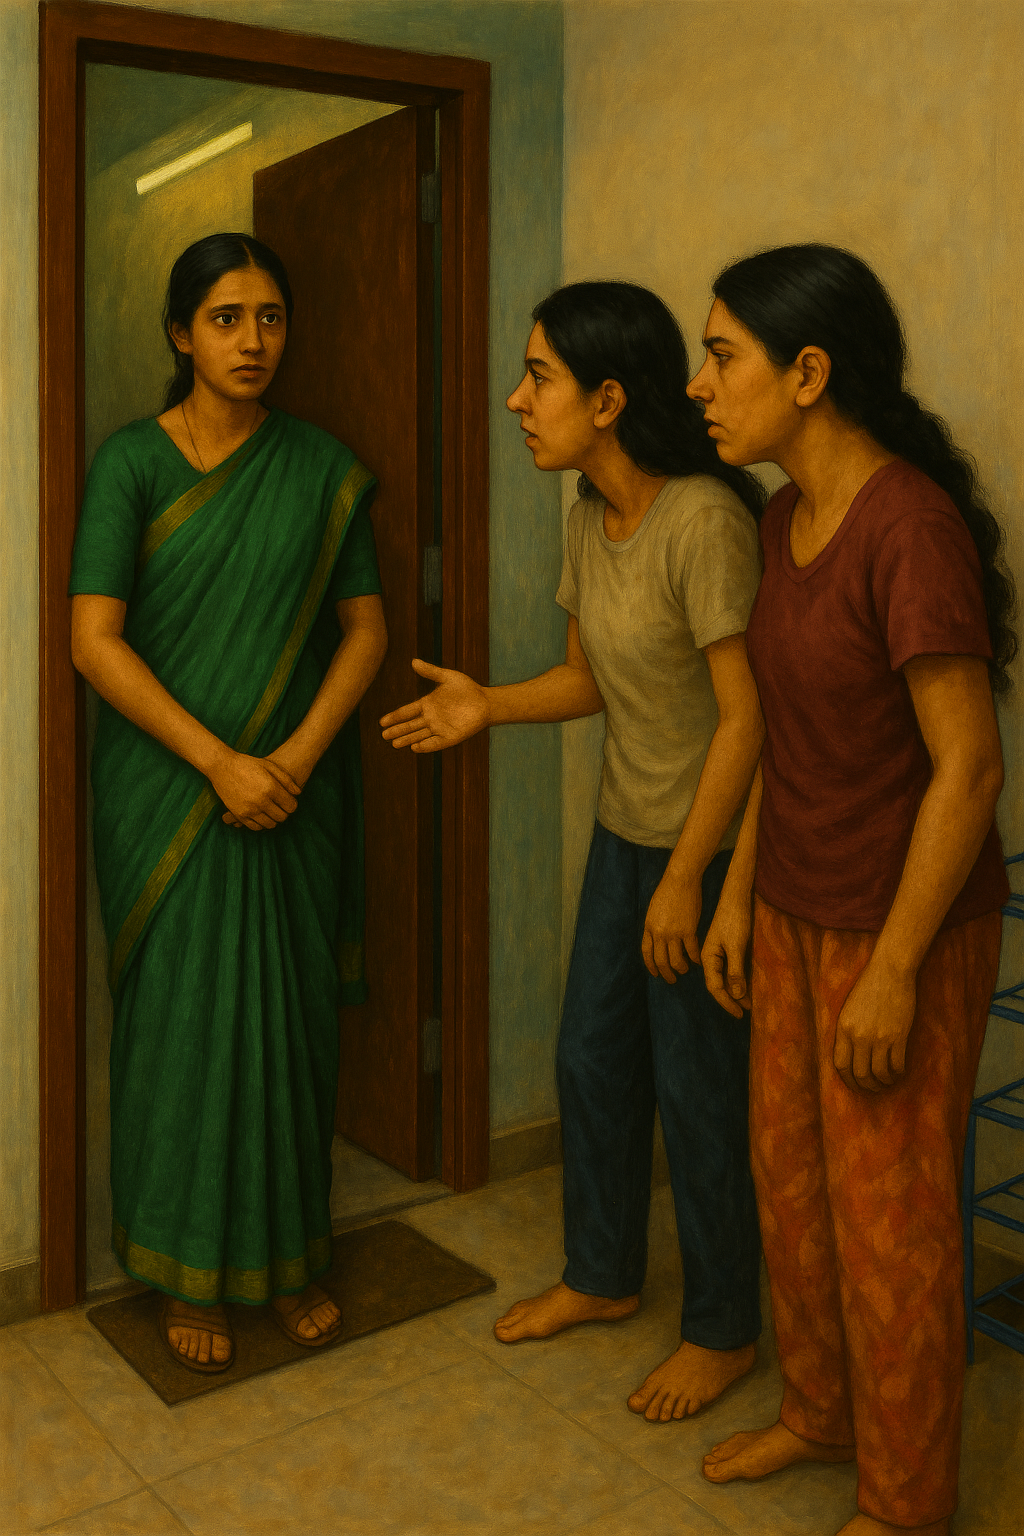
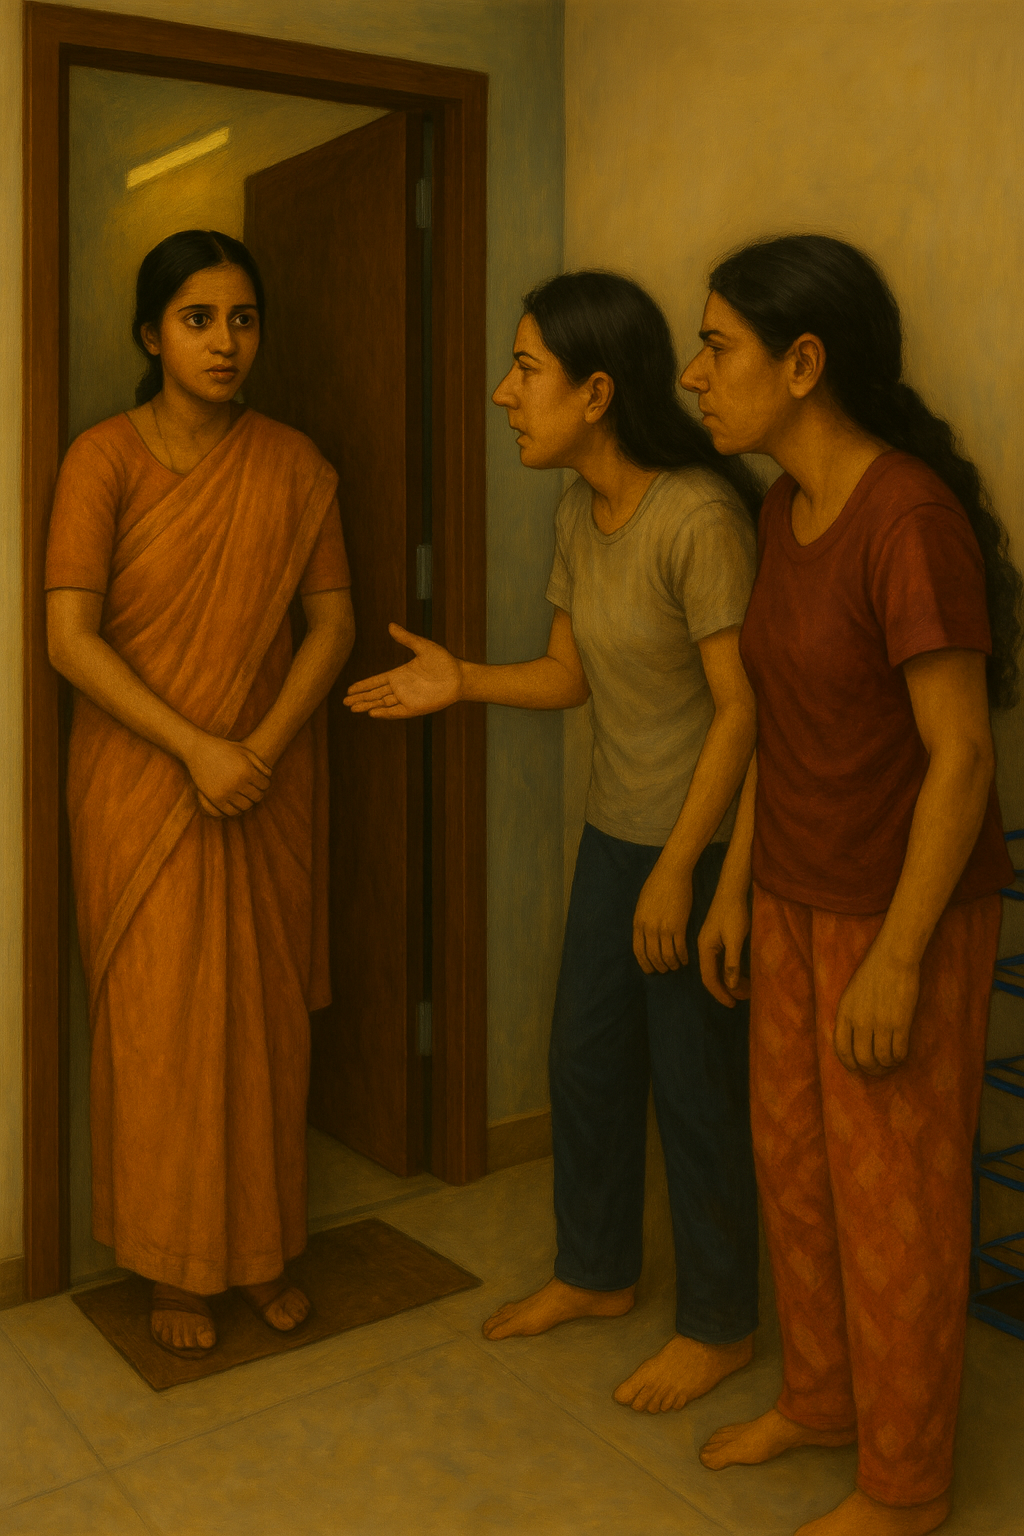
Update saraswati-chapter-3.html with new story content and fix navigation links between all chapters

diff --git a/stories/saraswati-chapter-3.html b/stories/saraswati-chapter-3.html
@@ -1,0 +1,157 @@
+<!DOCTYPE html>
+<html lang="en">
+<head>
+    <meta charset="UTF-8">
+    <meta name="viewport" content="width=device-width, initial-scale=1.0">
+    <title>Saraswati - Chapter 3</title>
+    <link rel="stylesheet" href="../styles.css">
+</head>
+<body>
+    <!-- Navigation Header -->
+    <header class="story-header-nav">
+        <div class="container">
+            <nav class="story-nav">
+                <a href="../index.html" class="back-home-btn">
+                    <span class="back-icon">←</span>
+                    <span class="back-text">Back to Stories</span>
+                </a>
+                <div class="story-nav-title">
+                    <h1>Saraswati</h1>
+                </div>
+                <div class="story-nav-actions">
+                    <button class="theme-toggle" aria-label="Toggle theme">🌙</button>
+                </div>
+            </nav>
+        </div>
+    </header>
+
+    <main class="story-main">
+
+
+        <!-- Chapter Header -->
+        <section class="chapter-header">
+            <div class="container">
+                <div class="chapter-header-content">
+                    <h1 class="chapter-main-title">Chapter 3 - Man in the grey suit</h1>
+                    <div class="chapter-meta">
+                        <!-- <span class="genre-tag">Mystery</span> -->
+                        <!-- <span class="chapter-progress-text">Chapter 1 of 3</span> -->
+                    </div>
+                </div>
+            </div>
+        </section>
+
+        <!-- Chapter Navigation -->
+            <div class="container">
+                <div class="chapter-nav-container">
+                    <a href="saraswati-chapter-2.html" class="nav-btn nav-prev">
+                        <span class="nav-icon">←</span>
+                        <span class="nav-text">Previous Chapter</span>
+                    </a>
+                    <div class="chapter-progress">
+                        <div class="progress-bar">
+                            <div class="progress-fill" style="width: 100%"></div>
+                        </div>
+                        <span class="progress-text">Chapter 3 of 3</span>
+                    </div>
+                    <a href="#" class="nav-btn nav-next disabled">
+                        <span class="nav-text">Next Chapter</span>
+                        <span class="nav-icon">→</span>
+                    </a>
+                </div>
+            </div>
+        </section>
+
+        <!-- Chapter Content -->
+        <section class="chapter-content-modern">
+            <div class="container">
+                <article class="chapter-article">
+                    <div class="content-wrapper">                        
+                        <p>Night thickened. From the divan, Shwetha hissed, "Did you text David?"</p>
+                        
+                        <p>"Please, I'm not chasing your boyfriend," Aditi retorted.</p>
+                        
+                        <p>"He says you fixed coffee for tomorrow with him!"</p>
+                        
+                        <p>"It was his idea. Research for my article on that auteur Ramya Patil."</p>
+                        
+                        <p>"Ask Google, madam!" Shwetha said, jabbing a finger at the laptop.</p>
+                        
+                        <p>"I know, okay?" Aditi shot back, rolling her eyes. "He's good at this, that's the only reason I'm even meeting him. Otherwise—" she waved dismissively—"I wouldn't touch your lollipop. You keep him for yourself."</p>
+                        
+                        <p>Before Shwetha could retort, Saraswati leaned forward, her voice tentative. "Can we… search about people also? On Google?"</p>
+                        
+                        <p>"Of course," Aditi chuckled, her irritation dissolving. "The famous ones are all there. The rest of us? We're still invisible."</p>
+                        
+                        <p>Behind them, Saraswati hesitated, then began to type—slowly, deliberately—murmuring each letter under her breath as though afraid the name itself might vanish if she didn't.</p>
+                        
+                        <p>The search bar blinked back at her, the page crawling to load. She leaned closer, eyes unblinking now, breath shallow.</p>
+                        
+                        <p>When the results finally appeared, her pupils dilated, jaw slackening as the words on the screen seemed to leap at her.</p>
+                        
+                        <div class="chapter-illustration-inline">
+                            <img src="../images/saraswati-chapter3.png" alt="The dramatic confrontation scene" class="illustration-image">
+                        </div>
+                        <p>The half-open door pushed itself wider, protesting with the weary creak of old hinges, the sound cutting through the silence of the flat.</p>
+                        
+                        <p>Lightning flickered; the ceiling bulb fluttered. A floorboard creaked. All three women turned.</p>
+                        
+                        <p>An elderly man stood at the threshold—immaculate grey suit, neat white beard, leather shoulder satchel, and a polished walking stick. His left ear bore a dark birthmark shaped like a smudge of ink. He smiled, gentle and familiar.</p>
+                        
+                        <p>"Saraswati," he intoned.</p>
+                        
+                        <p>She rose, recognition dawning too late. Gauging his appearance from top to bottom, a mixture of emotions she raised her hand pointing at him and about to utter something..</p>
+                        
+                        <p>The man drew a revolver, small and silvery.</p>
+                        
+                        <p>He looked at her, did not seem to care about what she was about to say.</p>
+                        
+                        <p>Aditi screamed. Shwetha froze.</p>
+                        
+                        <p>Bang…</p>
+                        
+                        <p>The shot ripped into Saraswati, punched clean through, and exploded out the glass window in a spray of shards.</p>
+                        
+                        <p>Saraswati crumpled, notebook fluttering down like a dying moth.</p>
+                        
+                        <p>Shaken and trembling, Aditi and Shwetha shrank back, hiding in fear that the old man's gun might swing their way next.</p>
+                        
+                        <p>The stranger looking down at Saraswati drawing her last breath whispered, almost tenderly, "Never put your time in the hands of the ungrateful; in the end we become stories inked by our own actions." He slipped out, shutting the door with polite finality.</p>
+                        
+                        <p>Silence roared.</p>
+                    </div>
+                </article>
+            </div>
+        </section>
+
+        <!-- Bottom Navigation -->
+        <section class="chapter-navigation-modern bottom-nav">
+            <div class="container">
+                <div class="chapter-nav-container">
+                    <a href="saraswati-chapter-2.html" class="nav-btn nav-prev">
+                        <span class="nav-icon">←</span>
+                        <span class="nav-text">Previous Chapter</span>
+                    </a>
+                    <a href="#" class="nav-btn nav-next disabled">
+                        <span class="nav-text">Next Chapter</span>
+                        <span class="nav-icon">→</span>
+                    </a>
+                </div>
+            </div>
+        </section>
+    </main>
+
+    <!-- Footer -->
+    <footer class="story-footer">
+        <div class="container">
+            <div class="footer-content">
+                <p>&copy; 2024 Story Publisher. All stories are original works.</p>
+                <div class="footer-links">
+                    <a href="../index.html">Home</a>
+                    <a href="#contact">Contact</a>
+                </div>
+            </div>
+        </div>
+    </footer>
+</body>
+</html> 

diff --git a/stories/saraswati-chapter-1.html b/stories/saraswati-chapter-1.html
@@ -32,7 +32,7 @@
         <section class="chapter-header">
             <div class="container">
                 <div class="chapter-header-content">
-                    <h1 class="chapter-main-title">Chapter 2</h1>
+                    <h1 class="chapter-main-title">Chapter - 1</h1>
                     <div class="chapter-meta">
                         <!-- <span class="genre-tag">Mystery</span> -->
                         <!-- <span class="chapter-progress-text">Chapter 1 of 3</span> -->
@@ -44,15 +44,15 @@
         <!-- Chapter Navigation -->
             <div class="container">
                 <div class="chapter-nav-container">
-                    <a href="saraswati-prologue.html" class="nav-btn nav-next">
+                    <a href="saraswati-prologue.html" class="nav-btn nav-prev">
+                        <span class="nav-icon">←</span>
                         <span class="nav-text">Previous Chapter</span>
-                        <span class="nav-icon">→</span>
                     </a>
                     <div class="chapter-progress">
                         <div class="progress-bar">
                             <div class="progress-fill" style="width: 33%"></div>
                         </div>
-                        <span class="progress-text">Chapter 2 of 9</span>
+                        <span class="progress-text">Chapter 1 of 3</span>
                     </div>
                     <a href="saraswati-chapter-2.html" class="nav-btn nav-next">
                         <span class="nav-text">Next Chapter</span>
@@ -67,15 +67,16 @@
             <div class="container">
                 <article class="chapter-article">
                     <div class="content-wrapper">                        
-                        <div class="chapter-illustration-inline">
-                            <img src="../images/saraswati-chapter1.png" alt="Shwetha and Aditi in their apartment" class="illustration-image">
-                        </div>
+                        
                         <p>07 PM.. - Earlier That Evening. </p>
                         <p>Inside flat 3‐C, twenty‐three‐year‐old Shwetha Rao banged on the bathroom door.</p>
                         <p>"Aditi, ya, hurry up! My stomach will explode!"</p>
                         <p>From behind the door Aditi Menon laughed. "Two minutes, baba! Need to squeeze out all that vada pav!"</p>
                         <p>Shwetha rolled her eyes, muttering threats. The second the latch clicked open, she rushed in—only to yelp. "You witch! Couldn't bother to flush?"</p>
                         <p>"Your fault for yelling 'faster', madaaam," Aditi sang, towels draped over her shoulder.</p>
+                        <div class="chapter-illustration-inline">
+                            <img src="../images/saraswati-chapter1.png" alt="Shwetha and Aditi in their apartment" class="illustration-image">
+                        </div>
                         <p>Five minutes later Shwetha emerged wiping her hands. She froze. "Why are you moving my stuff?" Aditi, already dismantling a shoe rack, answered breezily, "Didn't I tell you? Broker found us another flat‐mate."</p>
                         <p>"In my room? I can't share one loo with three girls!"</p>
                         <p>"We are not in the 90s, we are in 2014, Rent's gone up, electricity is killing us. Adjust, madam."</p>
@@ -91,11 +92,11 @@
         <section class="chapter-navigation-modern bottom-nav">
             <div class="container">
                 <div class="chapter-nav-container">
-                    <a href="#" class="nav-btn nav-prev disabled">
+                    <a href="saraswati-prologue.html" class="nav-btn nav-prev">
                         <span class="nav-icon">←</span>
                         <span class="nav-text">Previous Chapter</span>
                     </a>
-                    <a href="saraswati-chapter-1.html" class="nav-btn nav-next">
+                    <a href="saraswati-chapter-2.html" class="nav-btn nav-next">
                         <span class="nav-text">Next Chapter</span>
                         <span class="nav-icon">→</span>
                     </a>

diff --git a/stories/saraswati-chapter-2.html b/stories/saraswati-chapter-2.html
@@ -32,7 +32,7 @@
         <section class="chapter-header">
             <div class="container">
                 <div class="chapter-header-content">
-                    <h1 class="chapter-main-title">Chapter 3 - First Impressions</h1>
+                    <h1 class="chapter-main-title">Chapter 2 - First Impressions</h1>
                     <div class="chapter-meta">
                         <!-- <span class="genre-tag">Mystery</span> -->
                         <!-- <span class="chapter-progress-text">Chapter 1 of 3</span> -->
@@ -44,15 +44,15 @@
         <!-- Chapter Navigation -->
             <div class="container">
                 <div class="chapter-nav-container">
-                    <a href="saraswati-chapter-1.html" class="nav-btn nav-next">
+                    <a href="saraswati-chapter-1.html" class="nav-btn nav-prev">
+                        <span class="nav-icon">←</span>
                         <span class="nav-text">Previous Chapter</span>
-                        <span class="nav-icon">→</span>
                     </a>
                     <div class="chapter-progress">
                         <div class="progress-bar">
-                            <div class="progress-fill" style="width: 33%"></div>
+                            <div class="progress-fill" style="width: 66%"></div>
                         </div>
-                        <span class="progress-text">Chapter 3 of 9</span>
+                        <span class="progress-text">Chapter 2 of 3</span>
                     </div>
                     <a href="saraswati-chapter-3.html" class="nav-btn nav-next">
                         <span class="nav-text">Next Chapter</span>
@@ -67,16 +67,15 @@
             <div class="container">
                 <article class="chapter-article">
                     <div class="content-wrapper">                        
-                        <div class="chapter-illustration-inline">
-                            <img src="../images/saraswati-chapter2.png" alt="Saraswati arriving at the apartment" class="illustration-image">
-                        </div>
                         <p>She opened the door to find a slightly older girl in a plain cotton saree, hair braided so tight it looked like it hurt. She wore worn-out rubber slippers, standing awkwardly on the doormat as though afraid to dirty it. Wide-eyed, she blinked under the harsh fluorescent light of the corridor.</p>
                         
                         <p>Shwetha gave her a once-over and muttered in English to Aditi, "Full village vibes. Looks like she just got down from the KSRTC bus."</p>
                         
                         <p>Aditi chuckled. "Straight off the sugarcane fields, huh? Broker said she's studious. Let's see."</p>
                         <p>The visitor's eyes darted from the shoe rack to the fairy-lights strung across the wall, to the pile of cardboard boxes filled with cosmetics.</p>
-                        
+                        <div class="chapter-illustration-inline">
+                            <img src="../images/saraswati-chapter2.png" alt="Saraswati arriving at the apartment" class="illustration-image">
+                        </div>
                         <p>Switching to Kannada, Aditi asked, "You're the new girl?"</p>
                         
                         <p>The girl nodded.</p>
@@ -169,11 +168,11 @@
         <section class="chapter-navigation-modern bottom-nav">
             <div class="container">
                 <div class="chapter-nav-container">
-                    <a href="#" class="nav-btn nav-prev disabled">
+                    <a href="saraswati-chapter-1.html" class="nav-btn nav-prev">
                         <span class="nav-icon">←</span>
                         <span class="nav-text">Previous Chapter</span>
                     </a>
-                    <a href="saraswati-chapter-1.html" class="nav-btn nav-next">
+                    <a href="saraswati-chapter-3.html" class="nav-btn nav-next">
                         <span class="nav-text">Next Chapter</span>
                         <span class="nav-icon">→</span>
                     </a>

diff --git a/stories/saraswati-prologue.html b/stories/saraswati-prologue.html
@@ -50,9 +50,9 @@
                     </a>
                     <div class="chapter-progress">
                         <div class="progress-bar">
-                            <div class="progress-fill" style="width: 33%"></div>
+                            <div class="progress-fill" style="width: 0%"></div>
                         </div>
-                        <span class="progress-text">Chapter 1 of 3</span>
+                        <span class="progress-text">Prologue</span>
                     </div>
                     <a href="saraswati-chapter-1.html" class="nav-btn nav-next">
                         <span class="nav-text">Next Chapter</span>
@@ -67,11 +67,12 @@
             <div class="container">
                 <article class="chapter-article">
                     <div class="content-wrapper">                        
+                        
+                        <p>10:02 PM.. </p>
+                        <p>Bangalore’s summer night clung to an ageing apartment block — the kind that always smelt of curry leaves, damp cement, and someone’s ironing. From the service lane below, a lit third–floor window glowed against the dark.</p>
                         <div class="chapter-illustration-inline">
                             <img src="../images/prologue-image.png" alt="lit third-floor window with silhouettes in a quarrel" class="illustration-image">
                         </div>
-                        <p>10 PM.. </p>
-                        <p>Bangalore’s summer night clung to an ageing apartment block — the kind that always smelt of curry leaves, damp cement, and someone’s ironing. From the service lane below, a lit third–floor window glowed against the dark.</p>
                         <p>Inside, voices rose — sharp, overlapping, urgent. A sudden pause. The scrape of something heavy. Footsteps in frantic motion.</p>
                         <p>Then it came — a single, thunder–crack GUNSHOT splitting the air.</p>  
                         <p>A gasp. A scream. And, as if the city itself recoiled, the window went black.</p>
